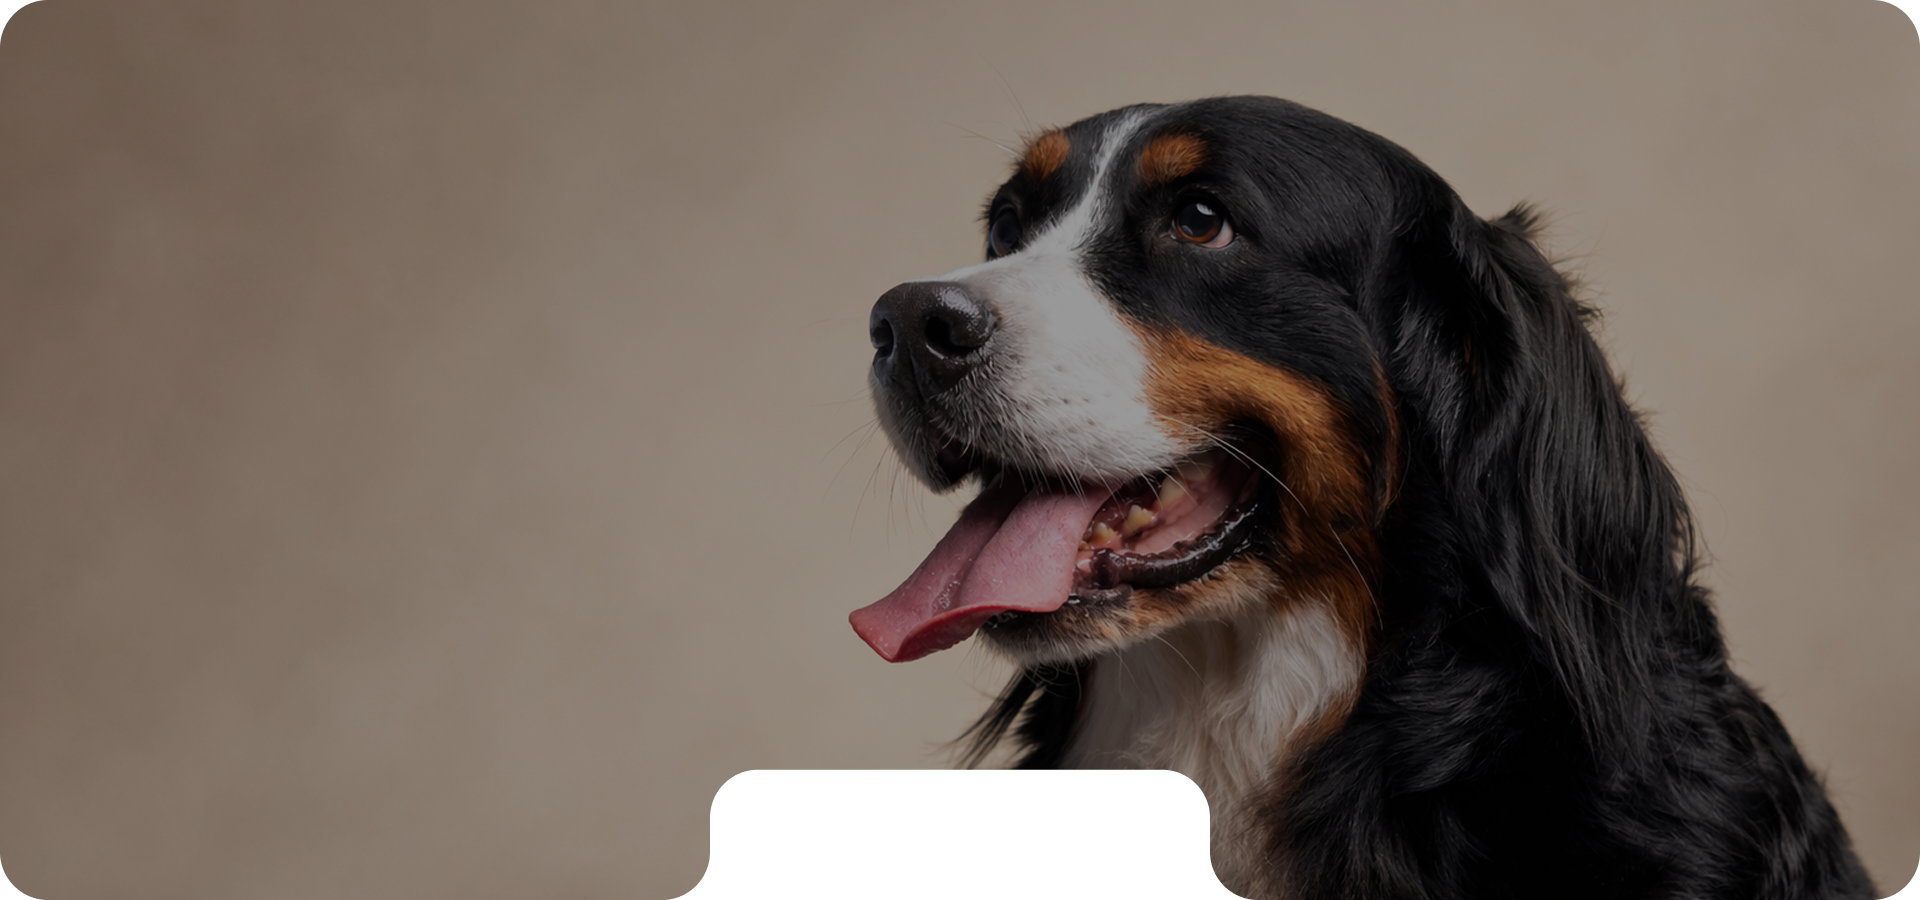
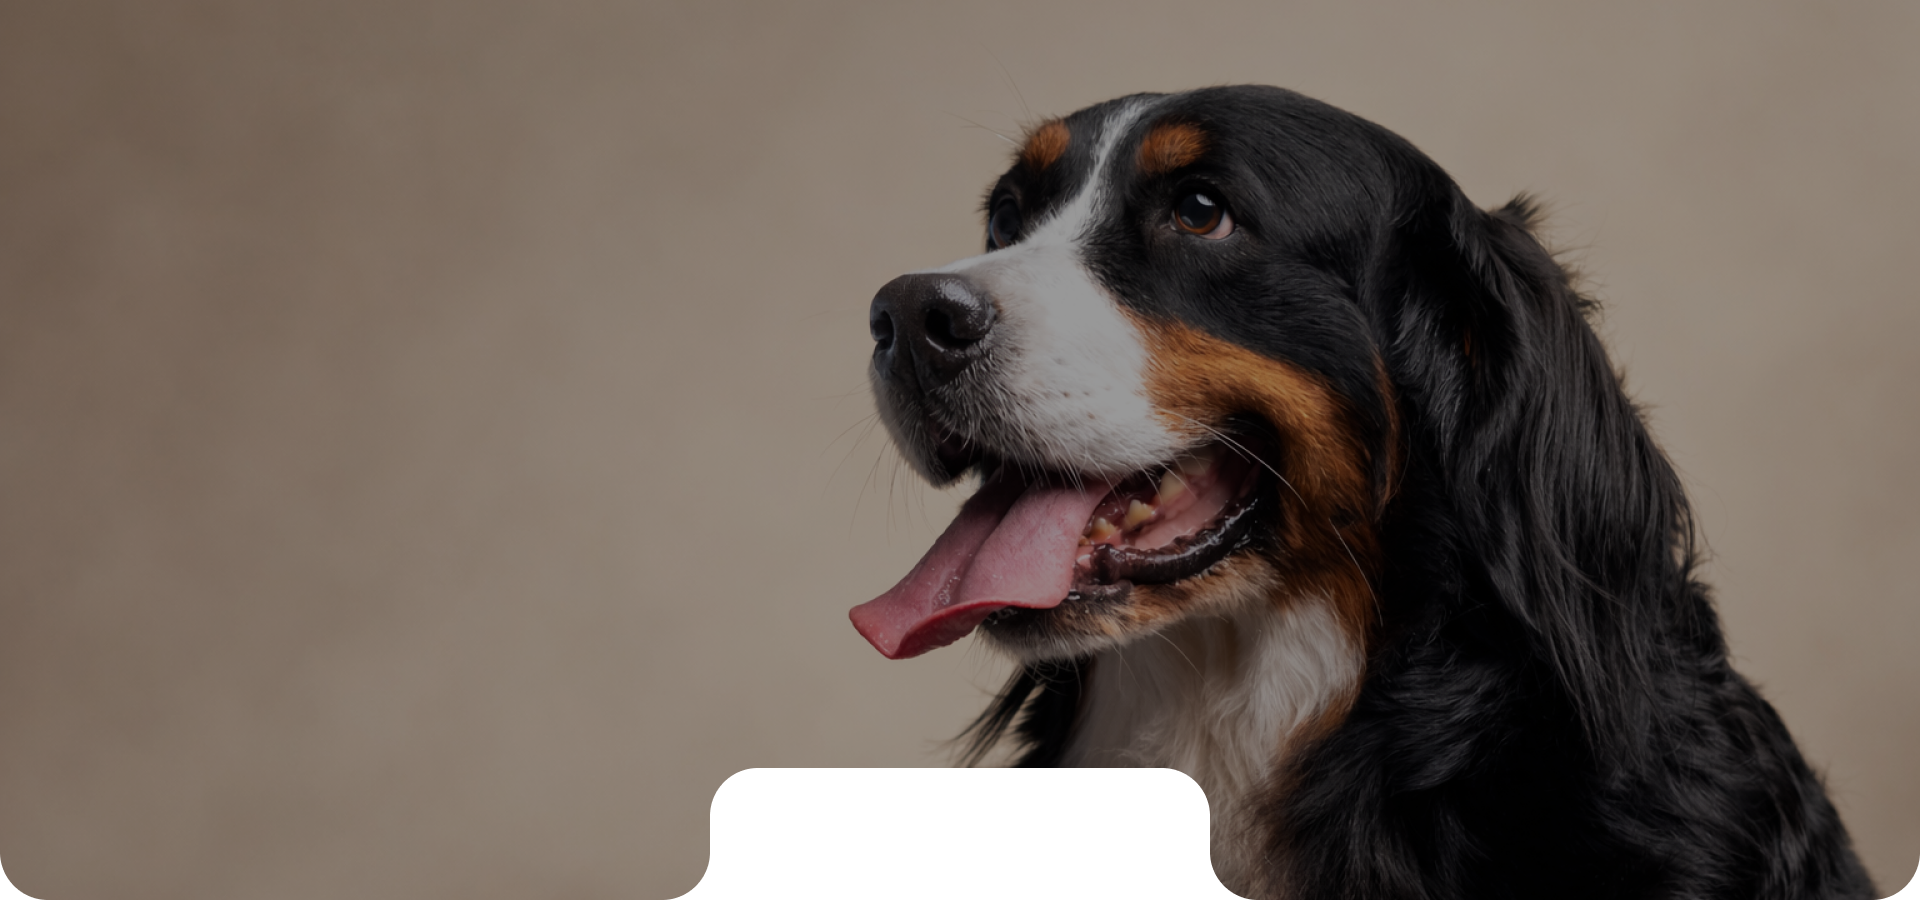
frontend fixes

diff --git a/frontend/pages/news.vue b/frontend/pages/news.vue
@@ -17,9 +17,12 @@
     <section>
         <div class="news-section">
             <div class="news-section__container">
-                <NewsCard></NewsCard>
-                <NewsCard tag="top"></NewsCard>
-                <NewsCard tag="useful"></NewsCard>
+                <NewsCard image="/images/news/news_1.jpg"></NewsCard>
+                <NewsCard image="/images/news/news_2.jpg" tag="useful"></NewsCard>
+                <NewsCard image="/images/news/news_3.jpg" tag="top"></NewsCard>
+                <NewsCard image="/images/news/news_4.jpg" tag="useful"></NewsCard>
+                <NewsCard image="/images/news/news_5.jpg" tag="useful"></NewsCard>
+                <NewsCard image="/images/news/news_6.png" tag="top"></NewsCard>
             </div>
         </div>
     </section>

diff --git a/frontend/components/ModalOrder.vue b/frontend/components/ModalOrder.vue
@@ -12,10 +12,9 @@
     const loading = ref(false)
 
     const cityOptions = [
-        { label: 'Москва', value: 'moscow' },
-        { label: 'Санкт-Петербург', value: 'spb' },
-        { label: 'Казань', value: 'kazan' },
-        { label: 'Новосибирск', value: 'novosibirsk' },
+        { label: 'Самара', value: 'samara' },
+        { label: 'Тольятти', value: 'togliatti' },
+        { label: 'Сызрань', value: 'syzran' },
     ]
 
     const city = ref<string | number | null>(null)